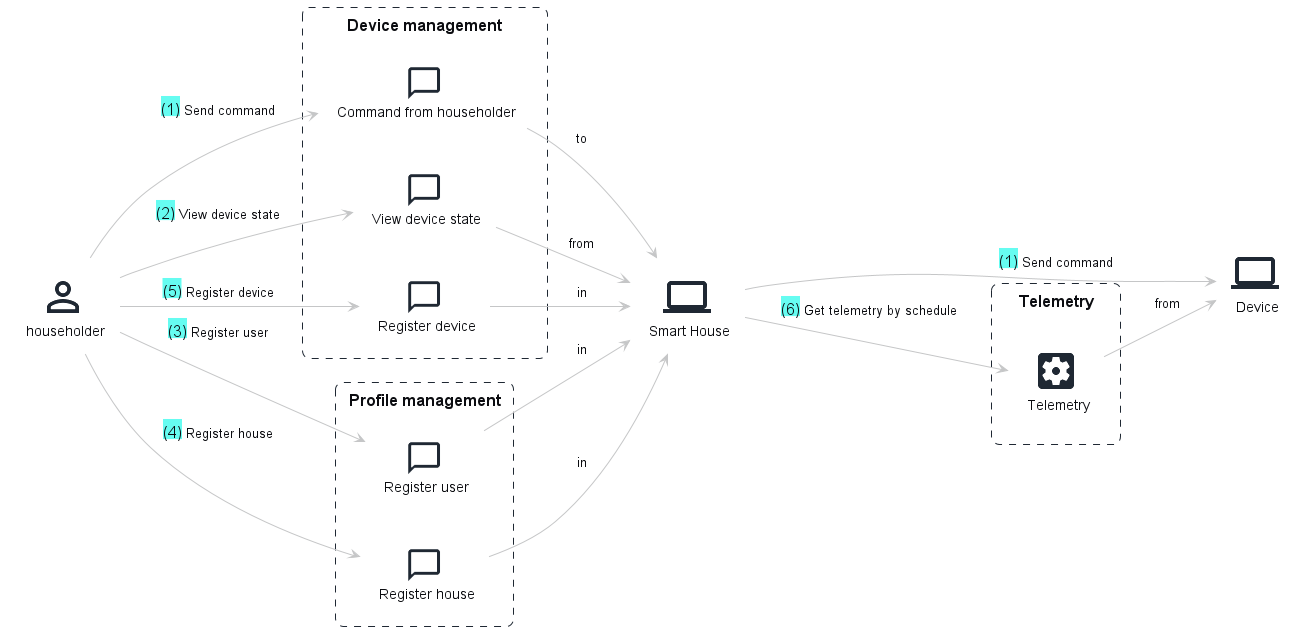
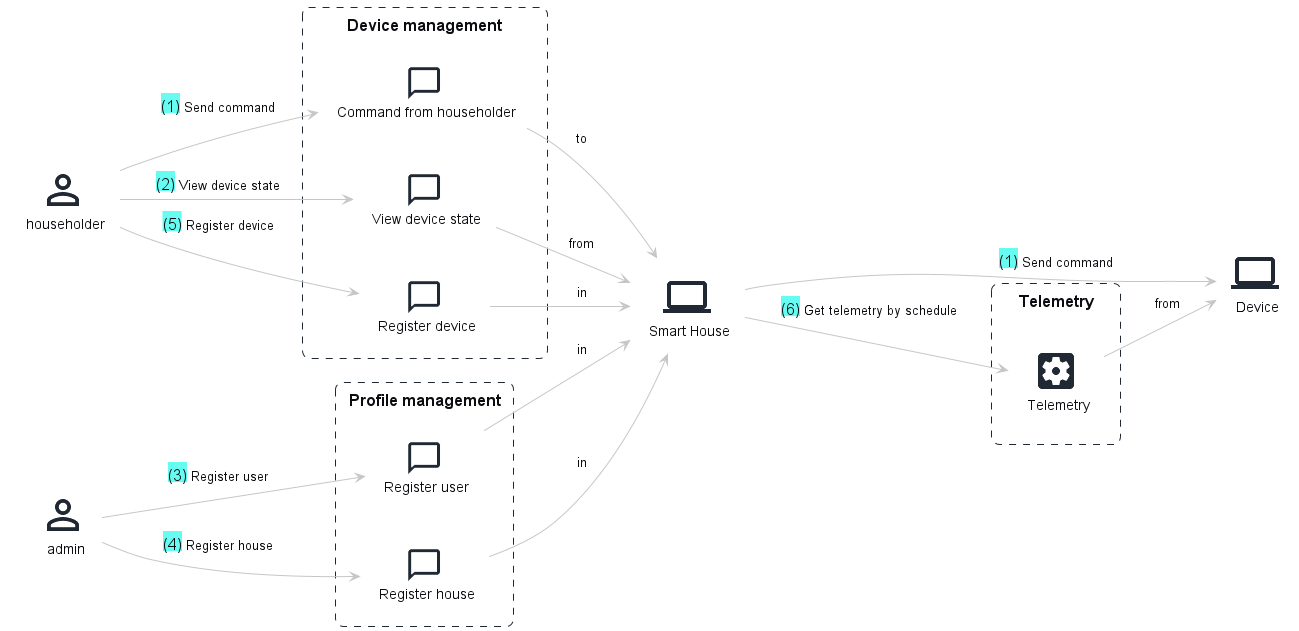
Changes: 1. Добавлены pros/cons для ASIS 2. В DDD  диаграмме выделен новый пользователь admin 3. Добавлено описание предлагаемого решения и его компонентов 4. Актуализированы container и component диаграммы 5. Добавлена container diagram для MVP (т.к. 2.1  задание основано на MVP) 6. В спецификации 

diff --git a/README.md b/README.md
@@ -22,6 +22,20 @@
 * Масштабируемость: Ограничена, так как монолит сложно масштабировать по частям.
 * Развертывание: Требует остановки всего приложения
 
+**Плюсы и минусы решения AS-IS**
+
+***Плюсы:***
+* Простота архитектуры.
+* Надежность и предсказуемость работы системы.
+* Легкость в обслуживании и поддержке.
+
+***Минусы:***
+* Отсутствие асинхронных вызовов и реактивного взаимодействия.
+* Невозможность самостоятельного подключения датчиков пользователями.
+* Ограниченная текущая функциональность (только управление отоплением и проверка температуры) и сложность расширения функциональности.
+* Ограниченные возможности по горизонтальному масштабированию в случае повышения нагрузки.
+
+
 **Домены и границы контекстов**
 
 Для определения доменов и границ контекстов использовалась методика Domain Storytelling https://domainstorytelling.org.
@@ -38,11 +52,28 @@
 
 ## 1.2: Архитектура микросервисов
 
+Целевая (TO-BE) архитектура решения Smart Home построена с использованием микросервисного подхода. 
+
+Технологический стек решения остается без изменений.
+
+В соответствии с результатами DDD для каждого основного домена выделены отдельные микросервисы. Также при проектировании архитектуры приложения в части работы с датчиками применен подход CQRS, разделяющий поток получения информации с датчиков и сохранения их БД и поток чтения информации полученной с датчиков пользователями. Таким образом выделены следующие основные микросервисы:
+
+
+| Наименование       | Описание                                                                                                                                                  |
+| ------------------ | --------------------------------------------------------------------------------------------------------------------------------------------------------- |
+| API gateway        | Основной шлюз, обеспечивающий централизованный доступ к API Smart House и решающий задачи аутентификациии и авторизации                                   |
+| Profile management | Микросервис, обеспечивающий регистрацию пользователей и домов и предоставляющий методы по работе с профилем пользователя                                  |
+| Device management  | Микросервис, обеспечивающий регистрацию устройств и работу с ними                                                                                         |
+| Telemetry          | Микросервис, обеспечивающий чтение телеметрии с устройств и предоставления данных телеметрии пользователям. Микросервис реализован согласно паттерну CQRS |
+
+**MVP Containers diagram**
+![](./C4-container_MVP.png)
+
+**TO-BE Containers diagram**
+![](./C4-container.png)
+
 **Components diagram**
 ![](./C4-component.png)
-
-**Containers diagram**
-![](./C4-container.png)
 
 **Code diagram**
 ![](./C4-code.png)
@@ -53,7 +84,7 @@
 ## 1.4: Создание и документирование API
 OpenAPI спецификация микросервисов выделенных согласно результатов DDD приведена в файле **api.yml**
 
-## 2.1 Новые микросервисы и интеграция с монолитом
+## 2.1 Разработка MVP. Новые микросервисы и интеграция с монолитом
 
 ### 2.1.1 Сборка контейнеров
 ```bash
